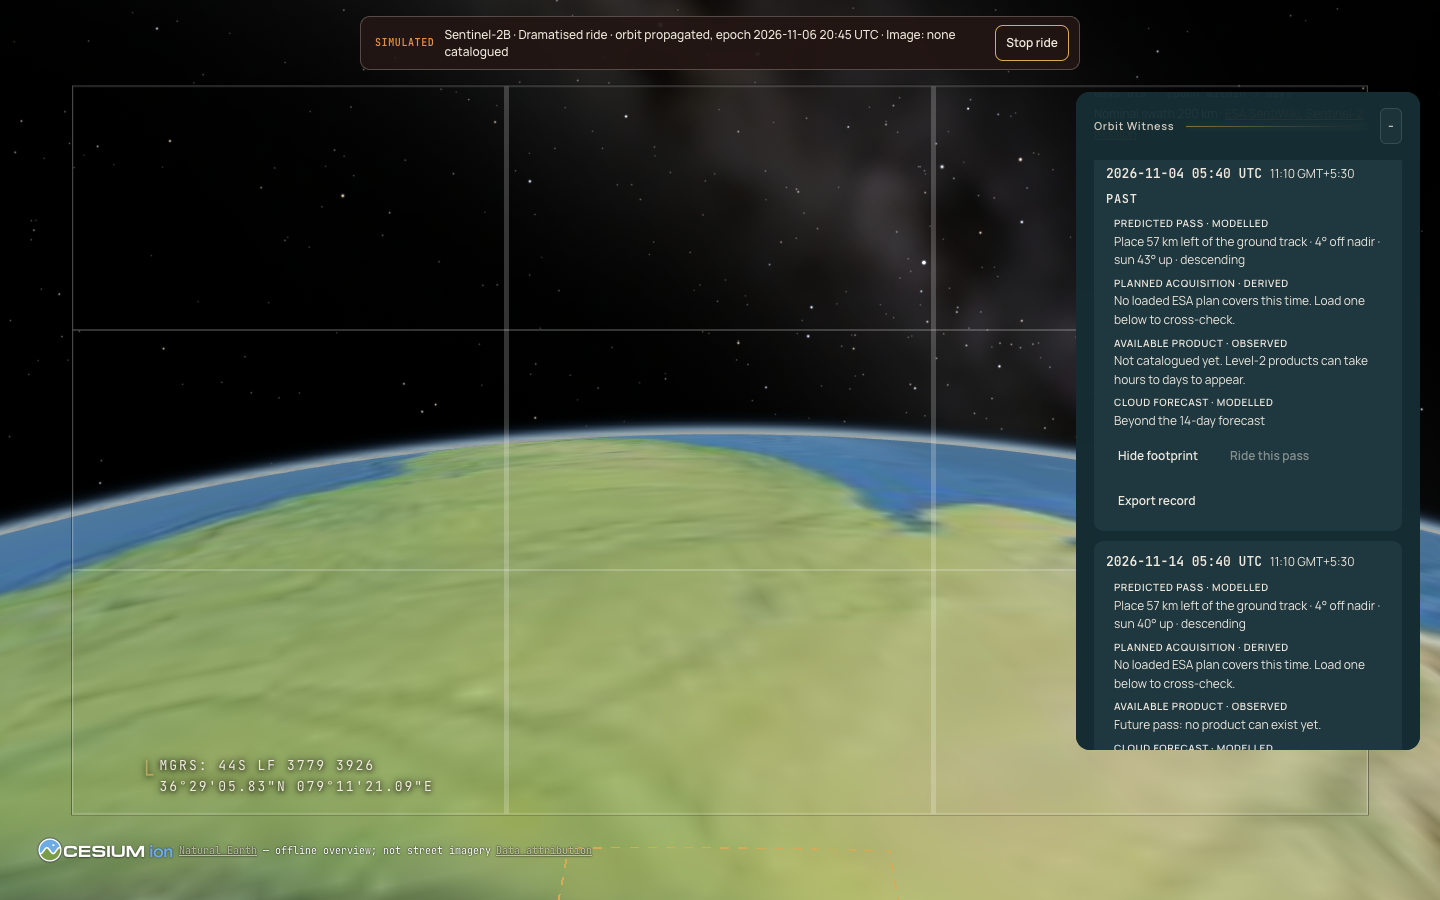
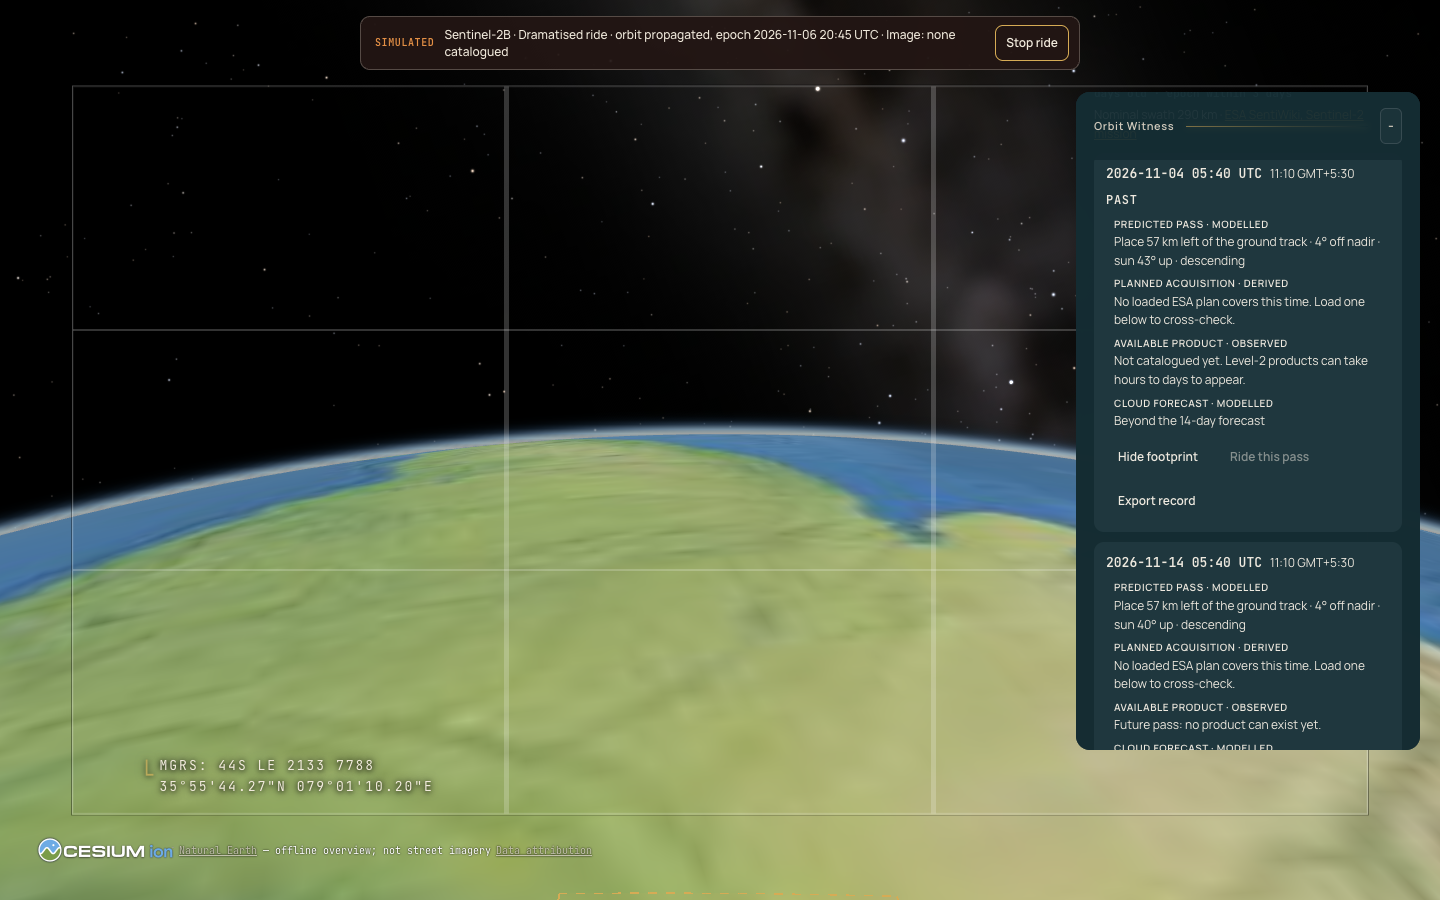
fix(orbit-witness): name footprint classes in the panel, not a Cesium label
World text belongs to the world-overlay host (noCesiumLabels guard).

diff --git a/src/orbitWitness/overlay.js b/src/orbitWitness/overlay.js
@@ -32,14 +32,11 @@ export function createOrbitWitnessOverlay(viewer) {
   }
   return {
     /**
-     * @param {{ predicted?: Array<[number, number]>|null, observed?: Array<[number, number]>|null, label?: string, place?: { lat: number, lon: number } }} shapes
+     * The panel names each shape's class; no Cesium label is drawn (world text
+     * belongs to the world-overlay host).
+     * @param {{ predicted?: Array<[number, number]>|null, observed?: Array<[number, number]>|null }} shapes
      */
-    async show({
-      predicted = null,
-      observed = null,
-      label = '',
-      place = null,
-    } = {}) {
+    async show({ predicted = null, observed = null } = {}) {
       const target = await ensure();
       if (!target) return false;
       target.entities.removeAll();
@@ -68,22 +65,6 @@ export function createOrbitWitnessOverlay(viewer) {
             width: 2,
             clampToGround: true,
             material: Cesium.Color.fromCssColorString(PETROL),
-          },
-        });
-      if (place && label)
-        target.entities.add({
-          id: 'orbit-witness-label',
-          position: Cesium.Cartesian3.fromDegrees(place.lon, place.lat),
-          label: {
-            text: label,
-            font: '600 13px "IBM Plex Sans", sans-serif',
-            fillColor: Cesium.Color.fromCssColorString('#f4ead7'),
-            outlineColor: Cesium.Color.BLACK,
-            outlineWidth: 3,
-            style: Cesium.LabelStyle.FILL_AND_OUTLINE,
-            verticalOrigin: Cesium.VerticalOrigin.BOTTOM,
-            heightReference: Cesium.HeightReference.CLAMP_TO_GROUND,
-            disableDepthTestDistance: Number.POSITIVE_INFINITY,
           },
         });
       registerDynamicCredit(viewer, ORBIT_WITNESS_CREDIT);

diff --git a/src/ui/orbitWitnessController.js b/src/ui/orbitWitnessController.js
@@ -272,14 +272,10 @@ export class OrbitWitnessController {
       ? this.context?.catalogue?.scenes.find((row) => row.id === scene.id)
           ?.footprint
       : null;
-    await this.overlay.show({
-      predicted: ring,
-      observed,
-      place: this.place,
-      label: scene
-        ? t('Predicted swath (modelled) · scene footprint (observed)')
-        : t('Predicted swath (modelled)'),
-    });
+    await this.overlay.show({ predicted: ring, observed });
+    this.feedback = observed
+      ? t('Predicted swath (modelled) · scene footprint (observed)')
+      : t('Predicted swath (modelled)');
     this.footprintPassId = passId;
     this.present();
     return true;
